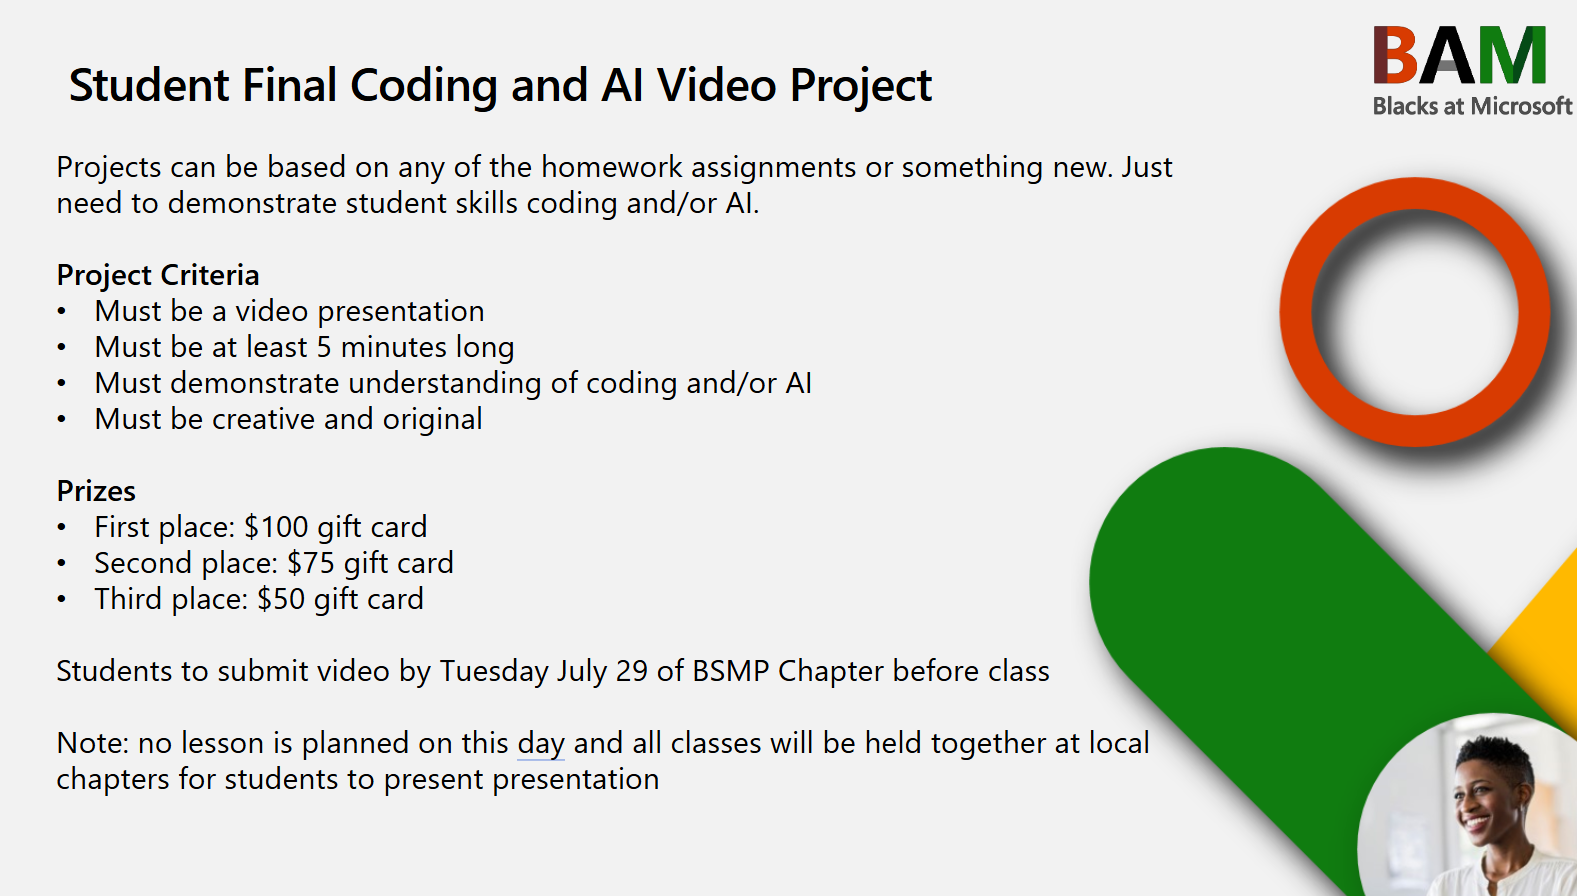
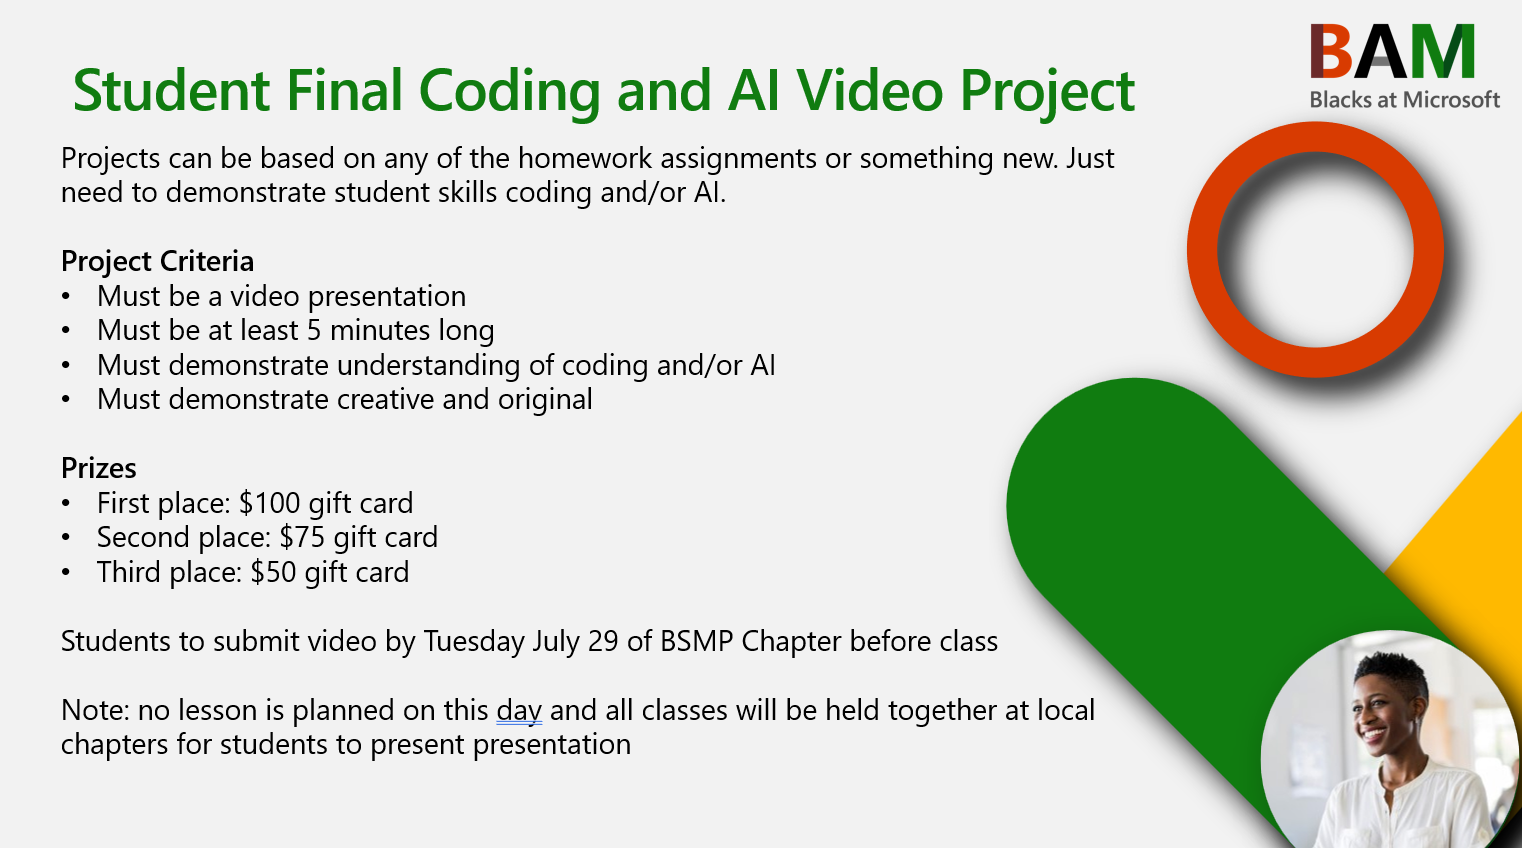
2025 final project submission like now open

diff --git a/2025/program/final_projects.md b/2025/program/final_projects.md
@@ -6,8 +6,11 @@
 
 !> All projects should be submitted by **`Monday, July 28 @ Midnight`** so team has time to review, and will be presented at your local BSMP chapter.
 
-> [!WARNING] <!--[!ATTENTION] ⚠-->  
-> Student Coding Project Submission form: [Link Placeholder]  
+> [!NOTE]
+> 
+> **Student Coding Project Submission form:** https://forms.office.com/r/skvLfKKSdw
+>
+> ![](../../2025/media/submission_form_excerpt.png)
 >
 > **Judging Criteria Objectives**
 > * Delivery - preparation and delivery of project/code/demo confidently
@@ -15,16 +18,8 @@
 > * Creativity and Originality - the presentation should be creative and original. extra points for those that come up with a unique and interesting way to present their topic, and use code/ai and visualizations in a way that is both informative and engaging.
 > 
 
-<!--
-Students to submit video by the last Tuesday of BSMP Chapter before class
 
-Student Coding Project Submission form: https://forms.office.com/r/eqjhnYgSS6
-
-
-![](../../_media/lessons/submission_form_excerpt.png)
--->
-
-
+----
 
 
 #### 🎓 Advance Past Submissions
